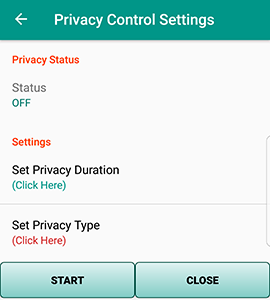
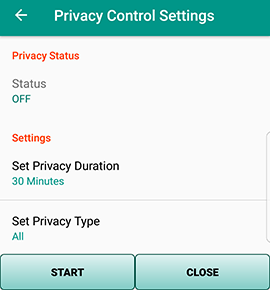
requested updates from Kevin

diff --git a/content/howto/mPerf/pg-phone.md b/content/howto/mPerf/pg-phone.md
@@ -31,7 +31,7 @@ keywords = []
 
 #### How to Use
 
-Wear the wrist sensors as you would wear a watch or FitBit. The sensors should be worn on each arm with the charging port pointed away from your hand as shown. The buckle is marked L or R to indicate left wrist or right wrist. Please be sure to wear each sensor on the correct wrist.
+Wear the wrist sensors as you would wear a watch or FitBit. The sensors should be worn snuggly on each wrist with the charging port pointed away from your hand as shown. The buckle is marked L or R to indicate left wrist or right wrist. Please be sure to wear each sensor on the correct wrist.
 
 <img src="/img/howto/mPerf/MSHRVwearingL.png">
 
@@ -106,7 +106,7 @@ If you see a yellow caution icon or a red X icon for an extended period of time,
 1. In the menu (found in the upper-left corner of the app's home screen), tap *Reset Application*, wait 15 seconds and check again.
 2. Restart the phone, wait one minute and check again.
 3. Make sure the wrist sensor is charged and LED lights are on.
-4. If these steps do not fix the problem, please contact a staff member. 
+4. If these steps do not fix the problem, please contact a staff member.
 
 You may also tap the *Graph* button to view the wrist sensor data on a plotter in real-time, or tap the *Tutorial* video link to view a video with detailed troubleshooting instructions.  
 
@@ -122,9 +122,13 @@ If you wish to pause data collection for your privacy at any point during the da
 
 2) On the *Privacy Control Settings* screen, tap to *Set Privacy Duration* and select how long you would like data collection to be paused.
 
-3) Tap *Set Privacy Type* to select which sensors will be paused.
+<img src="/img/howto/mPerf/privacyDuration.png">
 
-4) When finished, tap *Start* to begin the pause session. Data collection will automatically resume when the time has expired.
+3) Tap *Set Privacy Type* to select which type(s) of data collection will be paused.
+
+<img src="/img/howto/mPerf/privacyType.png">
+
+4) When finished, tap *Start* to begin the pause session. Data collection will automatically resume when the time has expired, or you may return to this screen and tap *Stop* to resume data collection at any time.
 
 <img src="/img/howto/mPerf/PrivacyControlSettings.png">
 
@@ -222,10 +226,15 @@ You may clean the chest band gently by hand using disinfecting wipes. DO NOT sub
 
 At the end of each day, charge all devices overnight (excluding the location beacons, which do not require charging). Do not force the chargers, look for matching ends and try to connect them carefully since these are delicate devices.
 
+
 Take off the two wrist sensors and plug them into the charger as shown. The charging port can be found on the side of wrist sensor.
 
+<img src="/img/howto/mPerf/chargingWrist.jpg">
 
-The charging port for the smartphone can be found on the bottom of the phone.
+The charging port for the smartphone can be found on the bottom of the phone. We recommend using the Samsung adapter and charging cable included with the phone for fast charging.
 
+<img src="/img/howto/mPerf/chargingPhone.jpg">
 
 The charging port for the chest band (optional) can be found on the side of the sensor.
+
+<img src="/img/howto/mPerf/chargingChest.jpg">
